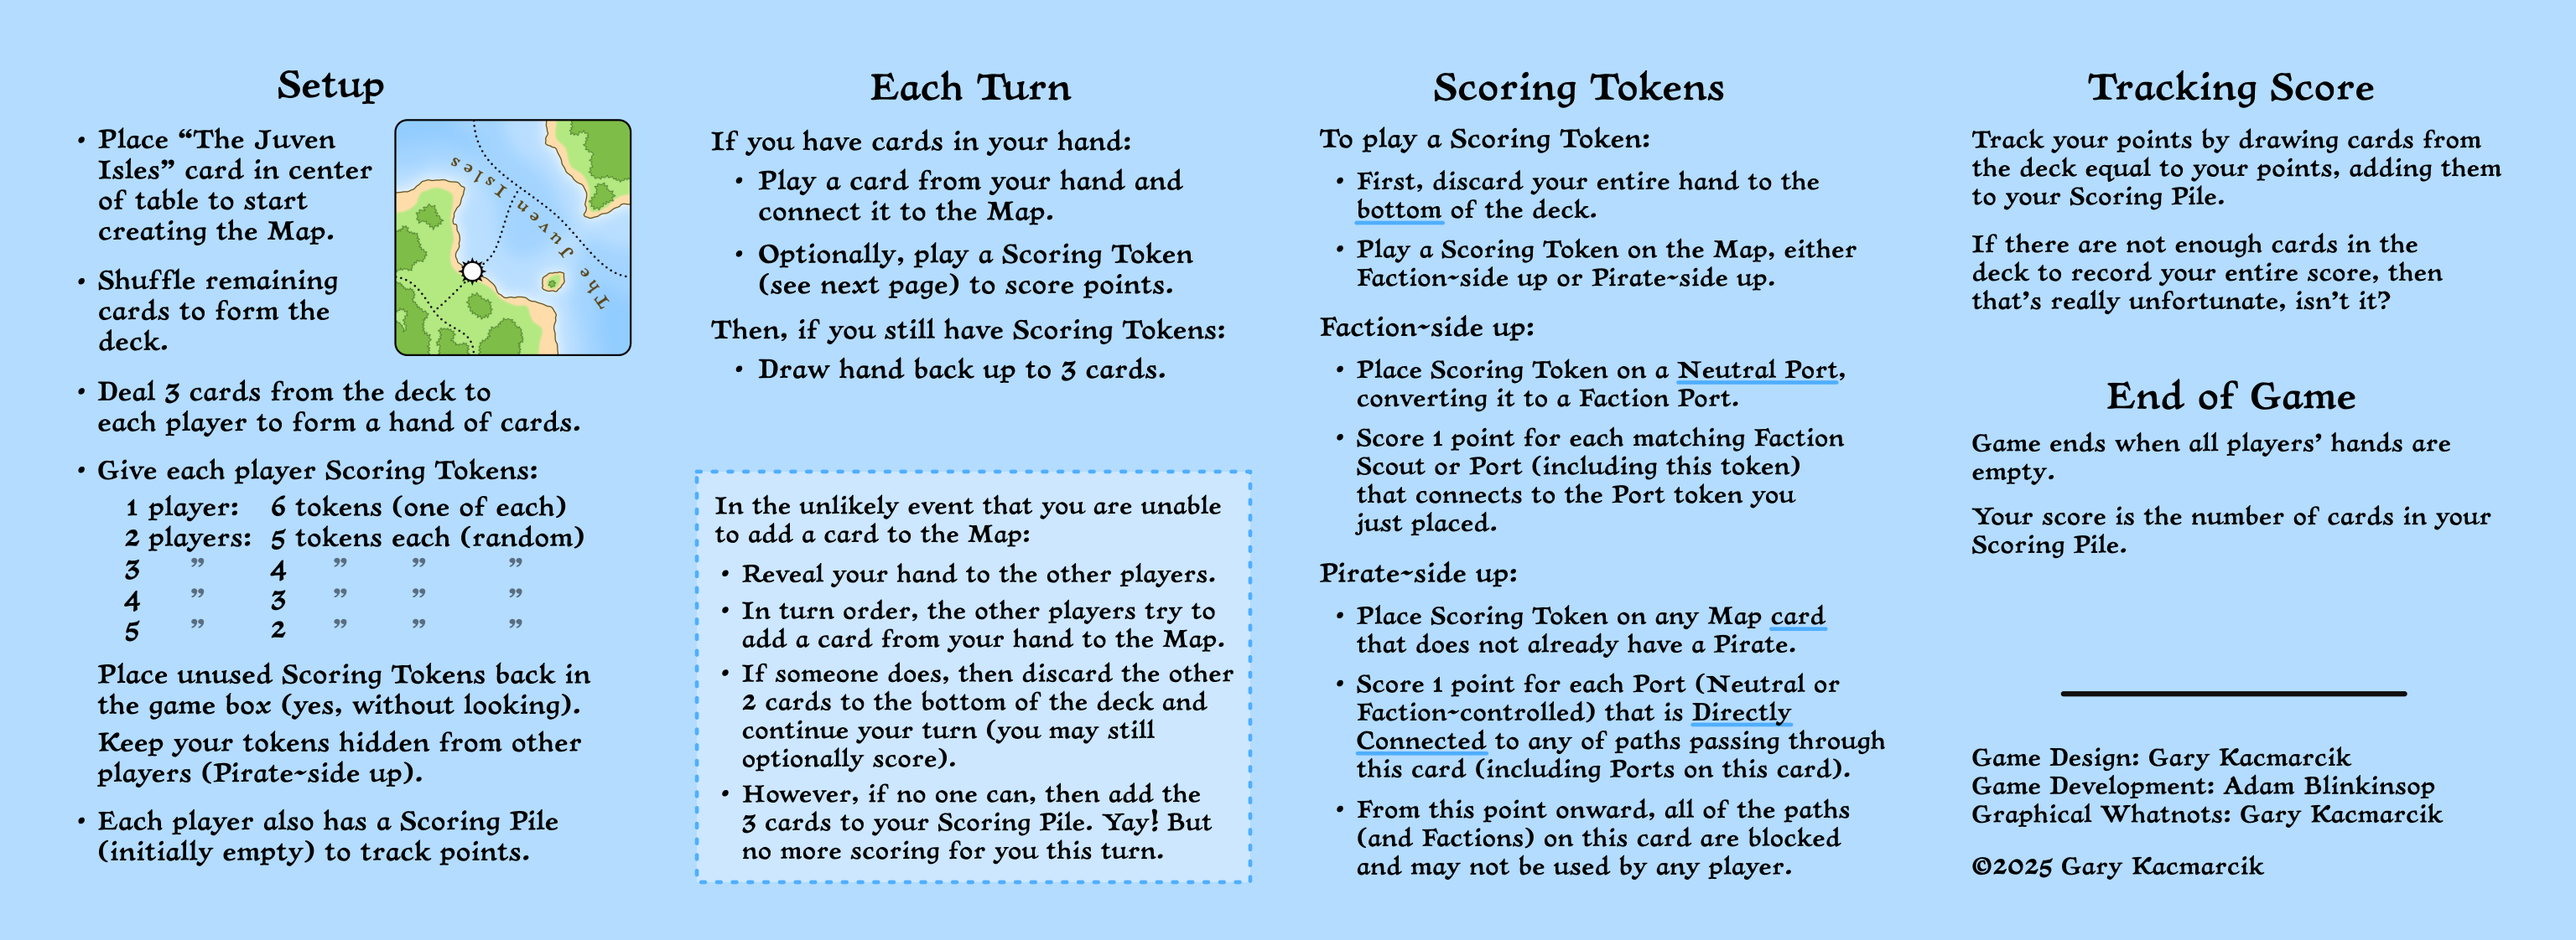
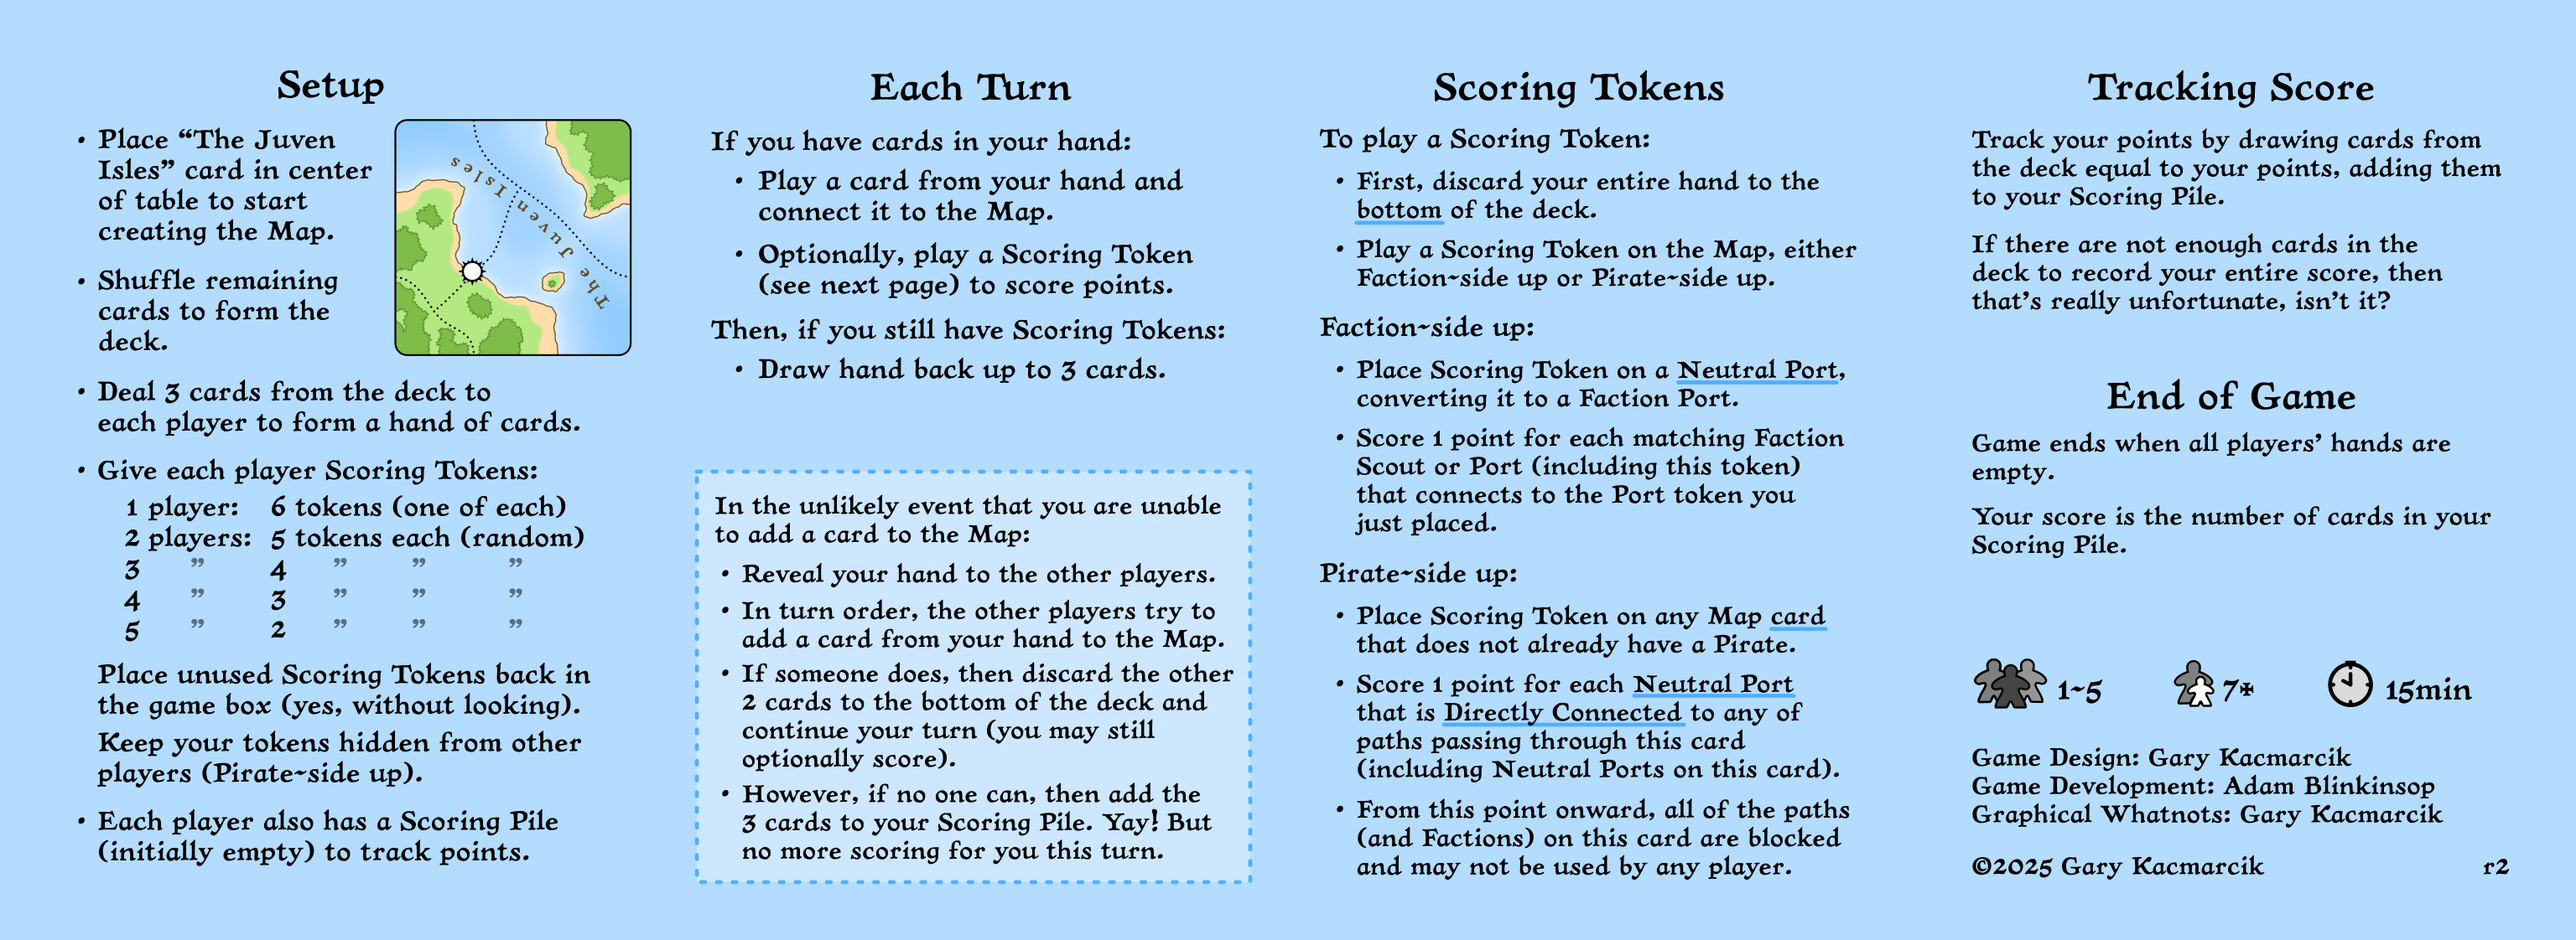
Update rulebooks to restrict Pirates to only Neutral ports

Changed region(s): [[0.5312, 0.7175, 0.75, 0.8422], [0.75, 0.6863, 0.9688, 0.7487]]

diff --git a/README.md b/README.md
@@ -2,6 +2,8 @@
 
 Juven Isle is a tile-laying (actually card-laying) game where you create a map of islands – building connections and deciding when to play your scoring tokens to maximize your score.
 
+When you play a scoring token, you claim a port for one of the 6 factions, and score a point for each matching faction symbol that the new port can connect to. Or... you could play the scoring token as a pirate, which permanently disrupts the map and scores unclaimed ports.
+
 When you score, you draw cards from the deck into your score pile. The total number of points available is limited by the cards remaining in the deck, so if you wait too long your opponents will have claimed them all.
 
 [![](img/20250102.png)](img/20250102.jpg)
